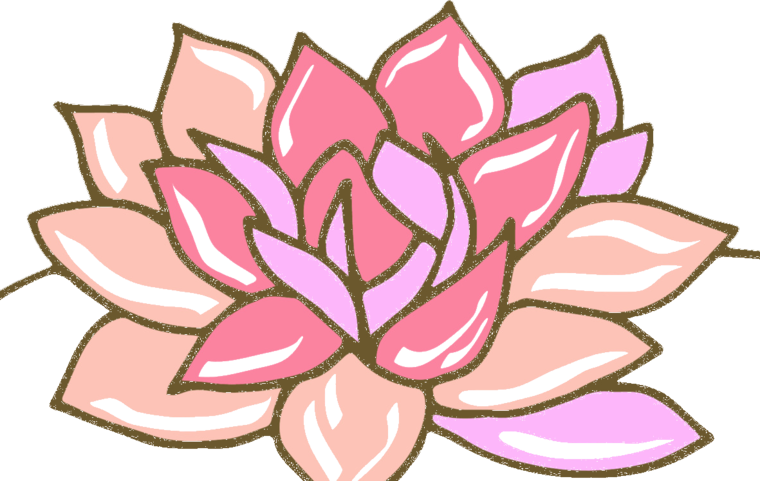
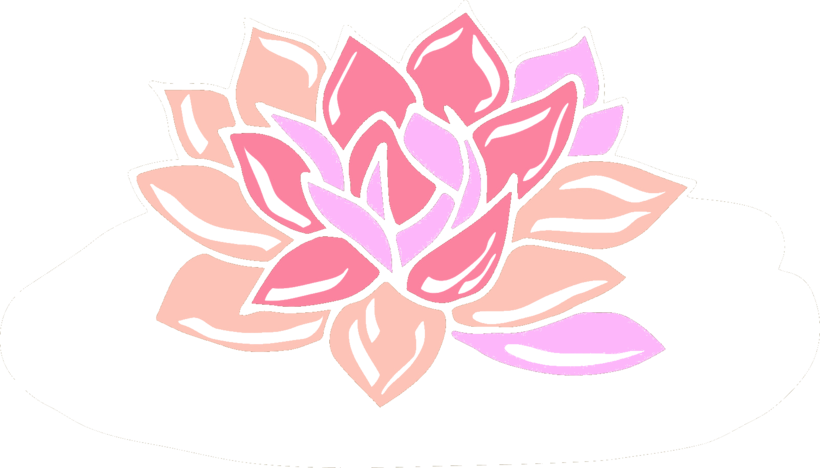
Hero: full lotus under Krishna (no clipped petals)
Color-key the green pad out of the FULL hand-painted lotus and auto-trim
instead of box-cropping, so every petal is kept. Widen + raise the pedestal
and drop the hero's overflow-hidden so the petals aren't clipped.

diff --git a/src/app/page.tsx b/src/app/page.tsx
@@ -79,7 +79,7 @@ export default async function LandingPage() {
 
       <main className="flex-1">
         {/* Hero */}
-        <section className="relative overflow-hidden bg-gradient-to-b from-saffron-200 via-saffron-100 to-cream">
+        <section className="relative bg-gradient-to-b from-saffron-200 via-saffron-100 to-cream">
           <div className="relative mx-auto grid max-w-6xl items-center gap-8 px-4 py-16 sm:py-20 lg:grid-cols-[1.1fr_0.9fr]">
             <div>
               <p className="text-sm font-semibold uppercase tracking-widest text-saffron-800">
@@ -124,7 +124,7 @@ export default async function LandingPage() {
                   className="absolute left-1/2 top-1/4 -z-10 h-64 w-64 -translate-x-1/2 rounded-full bg-saffron-300/40 blur-3xl sm:h-80 sm:w-80"
                 />
                 {/* the hand-painted lotus flower as His pedestal — feet rest on the petals */}
-                <LotusFlower className="absolute bottom-0 left-1/2 z-0 w-[92%] -translate-x-1/2 translate-y-[34%] drop-shadow-md" />
+                <LotusFlower className="absolute bottom-0 left-1/2 z-0 w-[120%] -translate-x-1/2 translate-y-[12%] drop-shadow-md" />
                 {/* Krishna in front, standing on the petals */}
                 <KrishnaImage
                   priority